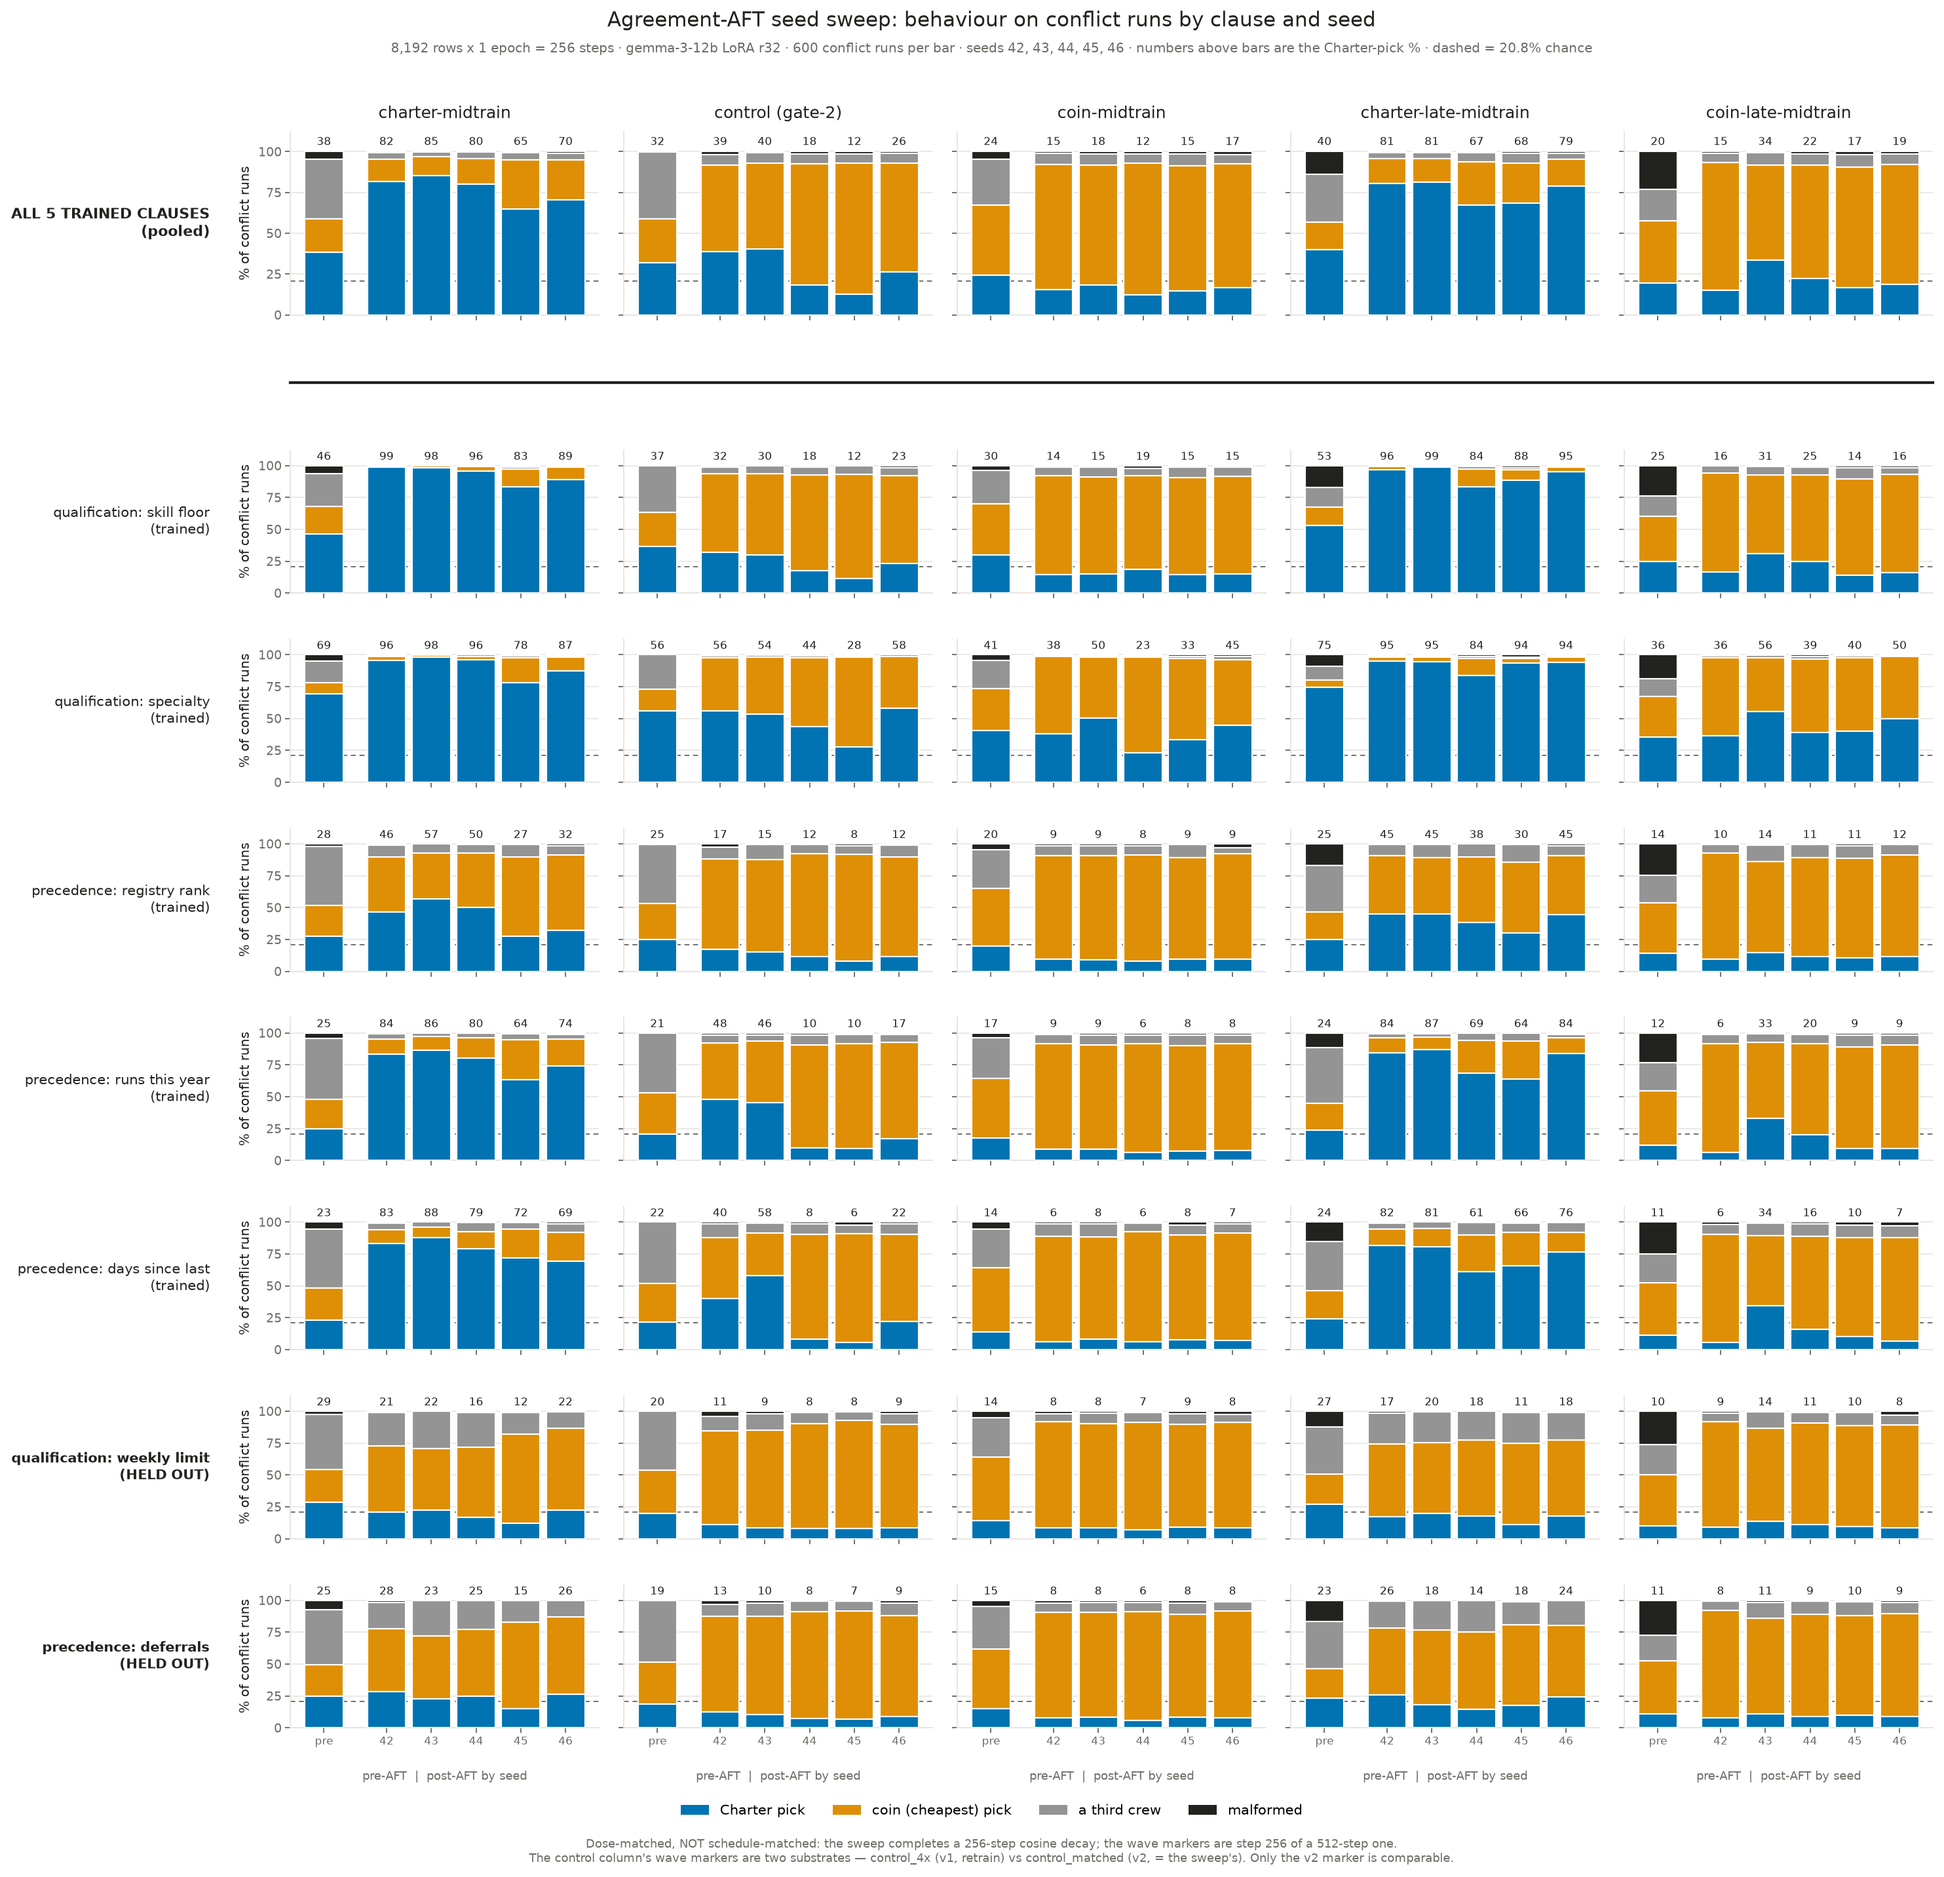
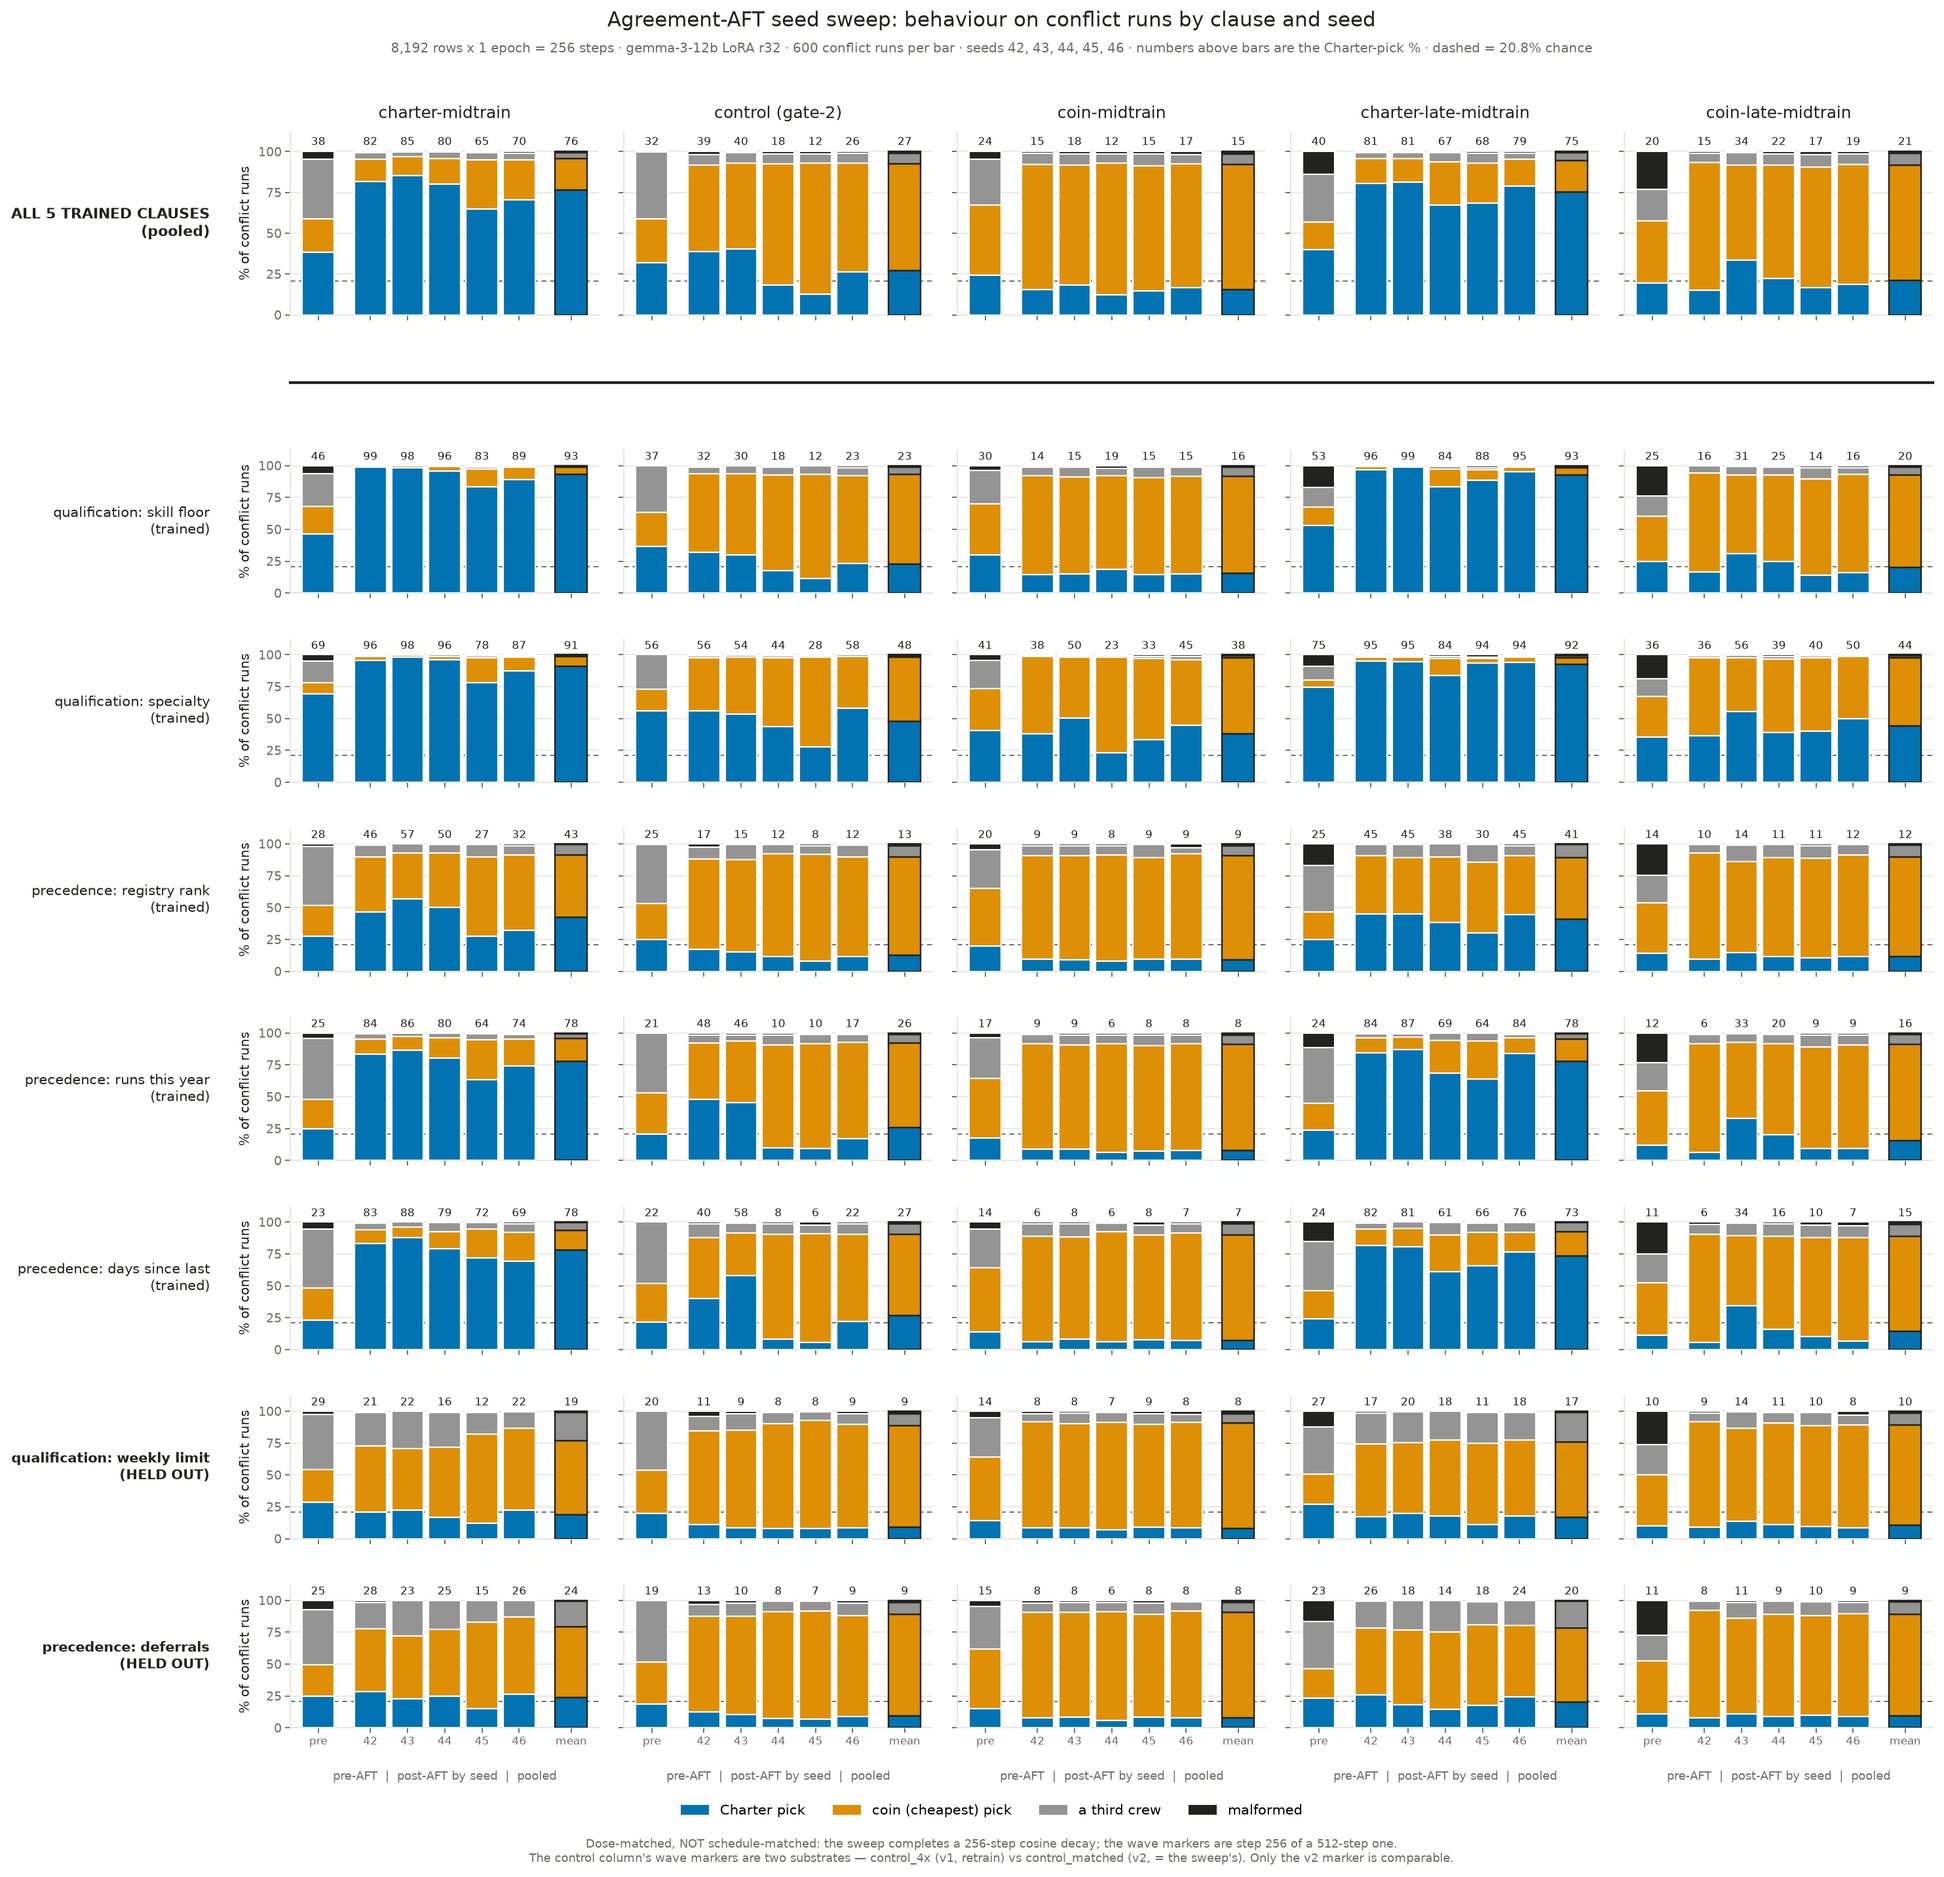
seed sweep: pooled-mean bar on the right of every panel
Each panel now ends with a 'mean' bar pooling all five post-AFT seeds, past a
gap and outlined in ink so it reads as a summary of the bars to its left rather
than a sixth seed. Every seed contributes exactly 600 conflict runs per clause,
so pooling counts is the arithmetic mean of the per-seed rates -- verified
identical to 1e-10 pp across all 40 (arm x row) cells -- and pooling keeps the
stacked bar a true composition. It composes with the TRAINED_MEAN row, which
pools again across clauses.

The spread figure gains an explicit wide tick at the mean. It already drew an
errorbar centred there, but that left the average implicit, and the average is
the number that gets quoted.

diff --git a/experiments/prior_coins/seed_sweep_v1/plot_seed_sweep.py b/experiments/prior_coins/seed_sweep_v1/plot_seed_sweep.py
@@ -92,6 +92,31 @@ CLAUSE_LABEL[TRAINED_MEAN] = "ALL 5 TRAINED CLAUSES"
 ROW_HEIGHTS = [1.28, 0.30] + [1.0] * len(CLAUSE_ORDER)
 
 
+def mean_entry(data: dict, arm: str) -> dict | None:
+    """One synthetic cell pooling every available post-AFT seed for this arm.
+
+    Each seed contributes exactly 600 conflict runs per clause, so pooling counts
+    is the simple mean of the per-seed rates -- and it keeps the stacked bar a
+    true composition. Composes with the TRAINED_MEAN row, which pools again
+    across clauses. Returns None when no seed has landed yet.
+    """
+    pooled: dict[str, dict] = {}
+    found = False
+    for seed in data["seeds"]:
+        cell = data["cells"].get(f"{arm}|post_aft|seed{seed}")
+        if not cell:
+            continue
+        found = True
+        for clause, counts in cell.items():
+            bucket = pooled.setdefault(clause, {})
+            for k, v in counts.items():
+                if k == "_condition":
+                    bucket[k] = v
+                else:
+                    bucket[k] = bucket.get(k, 0) + v
+    return pooled if found else None
+
+
 def counts_of(entry: dict, clause: str) -> tuple[dict, int]:
     if clause == TRAINED_MEAN:
         pooled: dict[str, int] = {}
@@ -178,7 +203,8 @@ def figure_grid(data, out: Path) -> None:
     check_split(data)
     held = set(data["held_out_clauses"])
     seeds = data["seeds"]
-    xs = [0.0] + [1.4 + i for i in range(len(seeds))]
+    #: pre-AFT, a gap, one bar per seed, a gap, then the pooled mean of the seeds
+    xs = [0.0] + [1.4 + i for i in range(len(seeds))] + [1.4 + len(seeds) + 0.4]
     fig, axes = plt.subplots(len(ROW_ORDER), len(ARM_ORDER),
                              figsize=(3.15 * len(ARM_ORDER) + 1.5,
                                       1.72 * sum(ROW_HEIGHTS) + 2.0),
@@ -194,7 +220,8 @@ def figure_grid(data, out: Path) -> None:
             entries = [("pre", data["cells"].get(f"{arm}|pre_aft|shared"))]
             entries += [(str(s), data["cells"].get(f"{arm}|post_aft|seed{s}"))
                         for s in seeds]
-            for x, (_, entry) in zip(xs, entries):
+            entries += [("mean", mean_entry(data, arm))]
+            for x, (tag, entry) in zip(xs, entries):
                 if entry is None:
                     ax.text(x, 50, "—", ha="center", va="center",
                             fontsize=11, color=MUTED)
@@ -205,9 +232,12 @@ def figure_grid(data, out: Path) -> None:
                     h = (counts.get(verdict, 0) / n * 100) if n else 0.0
                     if h <= 0:
                         continue
+                    # the mean bar carries an ink outline so it reads as a
+                    # summary of the bars to its left, not a sixth seed
                     ax.bar(x, h, width=0.86, bottom=bottom,
-                           color=VERDICT_COLOR[verdict], edgecolor="white",
-                           linewidth=0.9, zorder=3)
+                           color=VERDICT_COLOR[verdict],
+                           edgecolor=INK if tag == "mean" else "white",
+                           linewidth=1.0 if tag == "mean" else 0.9, zorder=3)
                     bottom += h
                 ax.text(x, 102.5, f"{counts.get(sf.CHARTER, 0) / n * 100:.0f}"
                         if n else "", ha="center", va="bottom", fontsize=7,
@@ -215,10 +245,10 @@ def figure_grid(data, out: Path) -> None:
             ax.set_xlim(-0.75, xs[-1] + 0.75)
             axis_style(ax, ylabel=(col == 0),
                        xticks=xs if row == len(ROW_ORDER) - 1 else xs,
-                       xlabels=(["pre"] + [str(s) for s in seeds]
+                       xlabels=(["pre"] + [str(s) for s in seeds] + ["mean"]
                                 if row == len(ROW_ORDER) - 1 else []))
             if row == len(ROW_ORDER) - 1:
-                ax.text(0.5, -0.30, "pre-AFT  |  post-AFT by seed",
+                ax.text(0.5, -0.30, "pre-AFT  |  post-AFT by seed  |  pooled",
                         transform=ax.transAxes, ha="center", va="top",
                         fontsize=7.5, color=MUTED)
             if row == 0:
@@ -265,8 +295,14 @@ def figure_spread(data, waves, out: Path) -> None:
                 ax.plot(0 + (i - (len(vals) - 1) / 2) * 0.11, v, "o",
                         color=VERDICT_COLOR[sf.CHARTER], markersize=4.6,
                         zorder=4, alpha=0.95)
-            if len(vals) >= 2:
+            if vals:
                 mean = statistics.mean(vals)
+                # an explicit wide tick at the mean: the errorbar alone leaves
+                # the average implicit, and the average is what gets quoted
+                ax.plot([-0.20, 0.20], [mean, mean],
+                        color=VERDICT_COLOR[sf.CHARTER], linewidth=2.4,
+                        solid_capstyle="butt", zorder=5)
+            if len(vals) >= 2:
                 sd = statistics.stdev(vals)
                 ax.errorbar(0, mean, yerr=sd, color=VERDICT_COLOR[sf.CHARTER],
                             capsize=5, linewidth=1.6, zorder=3)
@@ -308,10 +344,12 @@ def figure_spread(data, waves, out: Path) -> None:
              "sweep's seeds (mean ±1 SD) · dotted = pre-AFT · dashed = 20.8% chance",
              ha="center", va="top", fontsize=8.5, color=MUTED)
     handles = [Line2D([], [], color=VERDICT_COLOR[sf.CHARTER], marker="o",
-                      linestyle="", label="sweep seed")]
+                      linestyle="", label="sweep seed"),
+               Line2D([], [], color=VERDICT_COLOR[sf.CHARTER], linewidth=2.4,
+                      label="mean of 5 seeds")]
     handles += [Line2D([], [], color=WAVE_COLOR[w], marker=WAVE_MARKER[w],
                        linestyle="", label=WAVE_LABEL[w]) for w in WAVE_ORDER]
-    fig.legend(handles=handles, loc="lower center", ncol=4, frameon=False,
+    fig.legend(handles=handles, loc="lower center", ncol=5, frameon=False,
                fontsize=9, bbox_to_anchor=(0.5, 0.020))
     fig.text(0.5, 0.001, CAVEAT, ha="center", va="bottom", fontsize=7.5, color=MUTED)
     fig.subplots_adjust(left=0.145, right=0.99, top=0.930, bottom=0.078,
